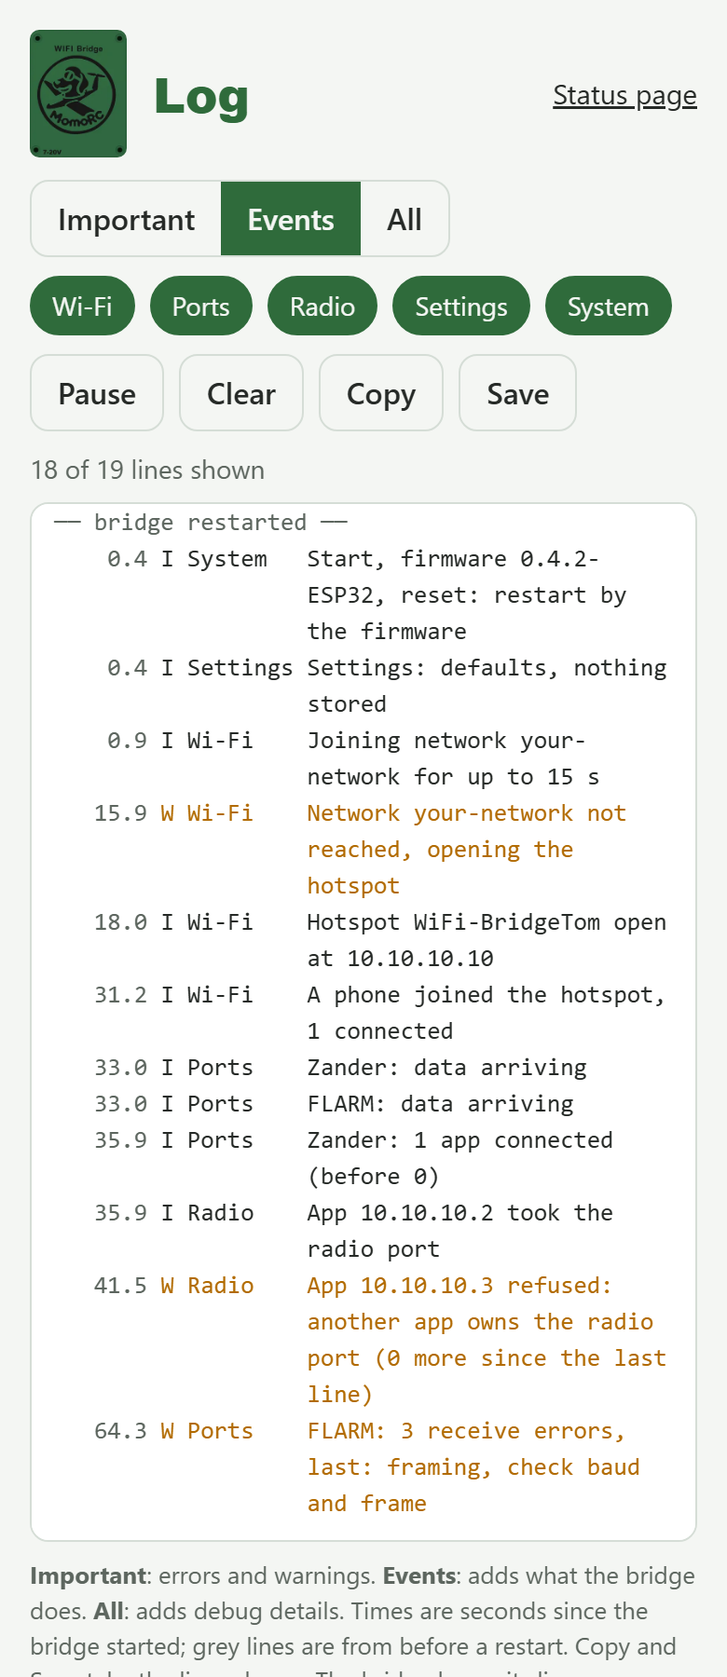
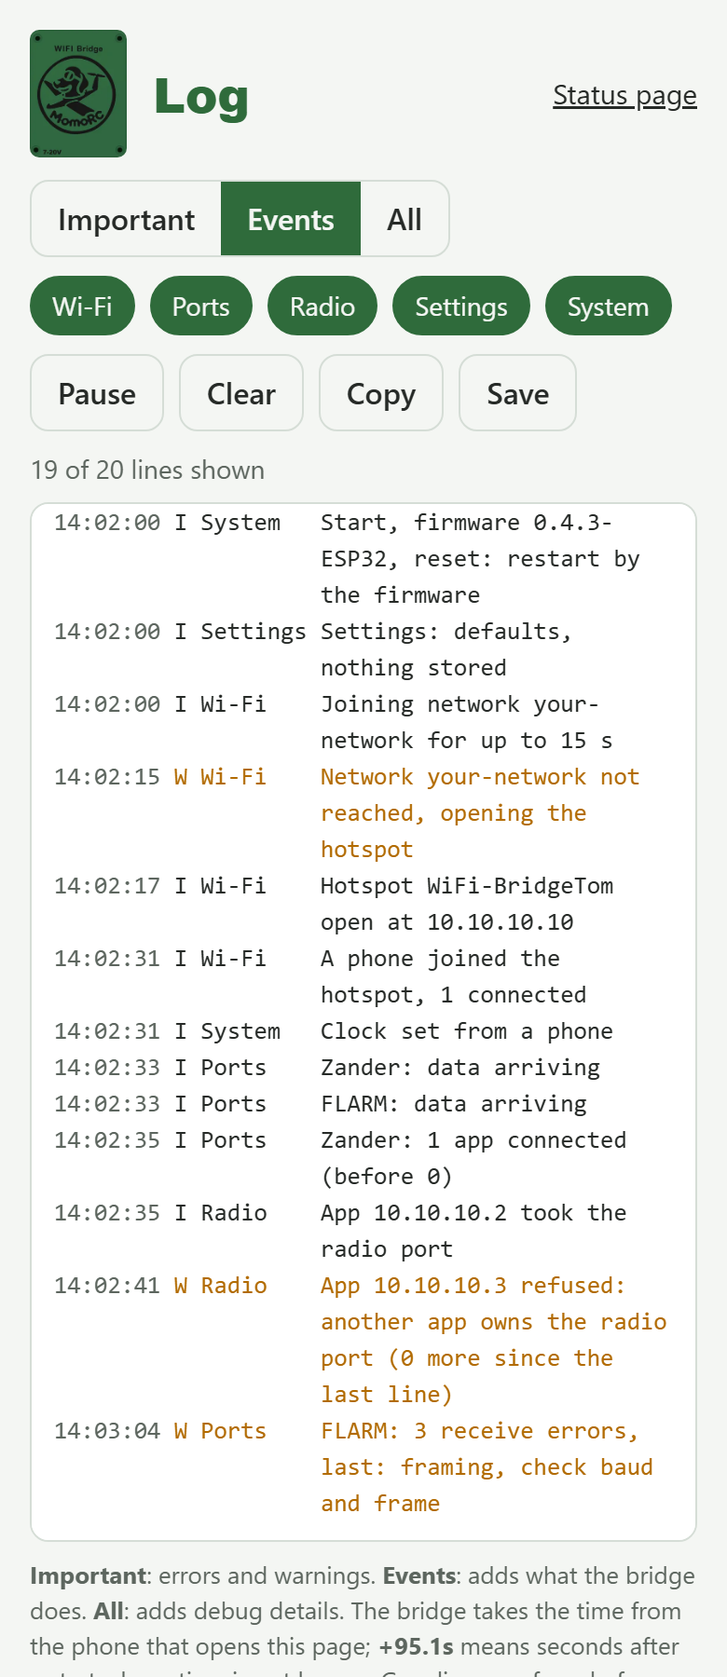
Add a clock time to every web log line
The bridge has no clock of its own: the log page now sends the phone's
time with every request. The first one sets the ESP32 clock and dates
the earlier lines of the same start; a phone more than 2 s off corrects
it. Each line stores its clock time (Unix s + ms, 0 = unknown), the
page shows HH:MM:SS with a date line per day, and Save writes date and
time with ms. Unknown times show as seconds after the start. Log
format version LOG2. Firmware 0.4.3.

Verified on the standalone bench ESP32 (S117): log_test 13/13, and
15/15 with --kept after an OTA restart; the clock ran through the
restart (lines dated before any phone time, 0.12 s off the PC clock);
loop test 4/4 with the log polled. Not tested: a phone as the time
source, a power cut.

diff --git a/firmware/bridge/log_page.h b/firmware/bridge/log_page.h
@@ -124,8 +124,10 @@ static void logSend(uint32_t since) {
                 statusServer.sendContent(buf, n);
                 n = 0;
             }
-            n += snprintf(buf + n, sizeof(buf) - n, "%s{\"q\":%lu,\"b\":%u,\"t\":%lu,\"l\":\"%c\",\"s\":\"%s\",\"m\":\"",
-                          comma ? "," : "", (unsigned long)l.seq, l.boot, (unsigned long)l.ms, l.level, kLogSource[l.src]);
+            n += snprintf(buf + n, sizeof(buf) - n,
+                          "%s{\"q\":%lu,\"b\":%u,\"t\":%lu,\"c\":%llu,\"l\":\"%c\",\"s\":\"%s\",\"m\":\"", comma ? "," : "",
+                          (unsigned long)l.seq, l.boot, (unsigned long)l.ms,
+                          l.sec ? (unsigned long long)l.sec * 1000ULL + l.milli : 0ULL, l.level, kLogSource[l.src]);
             comma = true;
             for (uint8_t k = 0; k < l.len; k++) {
                 const uint8_t c = (uint8_t)l.text[k];
@@ -171,7 +173,7 @@ button{font:inherit;font-weight:600;border-radius:10px;padding:8px 14px;cursor:p
 button:focus-visible{outline:2px solid var(--green);outline-offset:1px}
 #st{color:var(--mute);font-size:14px;margin:0 0 8px}
 #log{background:var(--field);border:1px solid var(--rule);border-radius:10px;padding:10px 12px;height:62vh;overflow:auto;font:13px/1.5 ui-monospace,Consolas,"Roboto Mono",monospace;white-space:pre-wrap;word-break:break-word;margin:0}
-.ln{display:block;padding-left:19ch;text-indent:-19ch}
+.ln{display:block;padding-left:20ch;text-indent:-20ch}
 .t,.lD,.sep{color:var(--mute)}.lE{color:var(--red)}.lW{color:var(--amber)}.old{opacity:.65}
 .key{color:var(--mute);font-size:13px;margin-top:8px}
 </style>
@@ -182,7 +184,7 @@ button:focus-visible{outline:2px solid var(--green);outline-offset:1px}
 <div class="bar"><button id="pz" onclick="pause()">Pause</button><button onclick="clr()">Clear</button><button onclick="copy()">Copy</button><button onclick="save()">Save</button></div>
 <p id="st">Loading the log</p>
 <pre id="log" aria-live="off"></pre>
-<p class="key"><b>Important</b>: errors and warnings. <b>Events</b>: adds what the bridge does. <b>All</b>: adds debug details. Times are seconds since the bridge started; grey lines are from before a restart. Copy and Save take the lines shown. The bridge keeps its lines across a restart, not across a power cut.</p>
+<p class="key"><b>Important</b>: errors and warnings. <b>Events</b>: adds what the bridge does. <b>All</b>: adds debug details. The bridge takes the time from the phone that opens this page; <b>+95.1s</b> means seconds after a start whose time is not known. Grey lines are from before a restart. Copy and Save take the lines shown. The bridge keeps its lines across a restart, not across a power cut.</p>
 </main>
 <script>
 const $=i=>document.getElementById(i),MAX=1500,
@@ -200,15 +202,20 @@ function remember(){localStorage.setItem('bridgeLog',JSON.stringify({view:view,o
 function say(t){note=t;noteAt=Date.now();status()}
 function status(){const n=shown().length;
 $('st').textContent=(Date.now()-noteAt<4000?note+'. ':'')+(paused?'Paused. ':'')+(lines.length?n+' of '+lines.length+' lines shown':'No lines yet')}
-function draw(){const L=$('log'),end=L.scrollTop+L.clientHeight>=L.scrollHeight-20;let h=[],prev='';
-for(const l of shown()){const k=l.e+'/'+l.b;if(prev&&k!==prev)h.push('<span class="ln sep">── bridge restarted ──</span>');prev=k;
-h.push('<span class="ln'+(l.e===epoch&&l.b===info.boot?'':' old')+'"><span class="t">'+(l.t/1000).toFixed(1).padStart(7)+'</span> <span class="l'+l.l+'">'+l.l+' '+SRC[l.s].padEnd(8)+' '+esc(l.m)+'</span></span>')}
+function day(ms){const d=new Date(ms);return d.getFullYear()+'-'+two(d.getMonth()+1)+'-'+two(d.getDate())}
+function hms(ms){const d=new Date(ms);return two(d.getHours())+':'+two(d.getMinutes())+':'+two(d.getSeconds())}
+function after(t){const s=t/1000;return '+'+(s<1000?s.toFixed(1):Math.round(s))+'s'}
+const sep=t=>'<span class="ln sep">── '+t+' ──</span>';
+function draw(){const L=$('log'),end=L.scrollTop+L.clientHeight>=L.scrollHeight-20;let h=[],prev='',pday='';
+for(const l of shown()){const k=l.e+'/'+l.b;if(prev&&k!==prev)h.push(sep('bridge restarted'));prev=k;
+if(l.c&&day(l.c)!==pday){pday=day(l.c);h.push(sep(pday))}
+h.push('<span class="ln'+(l.e===epoch&&l.b===info.boot?'':' old')+'"><span class="t" title="'+(l.t/1000).toFixed(3)+' s after the start">'+(l.c?hms(l.c):after(l.t).padStart(8))+'</span> <span class="l'+l.l+'">'+l.l+' '+SRC[l.s].padEnd(8)+' '+esc(l.m)+'</span></span>')}
 L.innerHTML=h.join('');if(end)L.scrollTop=L.scrollHeight;status()}
-function poll(){fetch('/api/log?since='+since,{cache:'no-store'}).then(r=>r.json()).then(d=>{
+function poll(){fetch('/api/log?since='+since+'&clock='+Date.now(),{cache:'no-store'}).then(r=>r.json()).then(d=>{
 if(d.seq<since)epoch++;
-const at=Date.now();info=d;
-if(d.lost)lines.push({e:epoch,b:d.boot,t:d.now,c:at,l:'W',s:'system',m:'Some lines were overwritten before this page fetched them'});
-for(const l of d.lines)lines.push({e:epoch,b:l.b,t:l.t,c:l.b===d.boot?at-(d.now-l.t):0,l:l.l,s:l.s,m:l.m});
+info=d;
+if(d.lost)lines.push({e:epoch,b:d.boot,t:d.now,c:Date.now(),l:'W',s:'system',m:'Some lines were overwritten before this page fetched them'});
+for(const l of d.lines)lines.push({e:epoch,b:l.b,t:l.t,c:l.c,l:l.l,s:l.s,m:l.m});
 if(lines.length>MAX)lines.splice(0,lines.length-MAX);
 since=d.seq;if(!paused)draw();else status()}).catch(()=>{$('st').textContent='The bridge is not answering.'})}
 function ui(){$('views').innerHTML=Object.keys(VIEWS).map(k=>'<button aria-pressed="'+(k===view)+'" onclick="setView(\''+k+'\')">'+VIEWS[k][0]+'</button>').join('');
@@ -220,8 +227,8 @@ function pause(){paused=!paused;ui();draw()}
 function clr(){lines=[];draw()}
 function text(){const s=shown();return['# WIFI Bridge log, firmware '+(info.firmware||'?')+', saved '+stamp(new Date())+' (phone clock)',
 '# View: '+VIEWS[view][0]+'; sources: '+Object.keys(SRC).filter(k=>!off.has(k)).map(k=>SRC[k]).join(', '),
-'# Columns: clock time (estimated from the phone, - before a restart), seconds since start, start number, level, source, message']
-.concat(s.map(l=>[l.c?clock(l.c):'-',(l.t/1000).toFixed(3),l.b,LV[l.l],SRC[l.s],l.m].join('\t'))).join('\n')+'\n'}
+'# Columns: date and time (time zone of this phone; - not known), seconds since start, start number, level, source, message']
+.concat(s.map(l=>[l.c?day(l.c)+' '+clock(l.c):'-',(l.t/1000).toFixed(3),l.b,LV[l.l],SRC[l.s],l.m].join('\t'))).join('\n')+'\n'}
 function legacyCopy(t){const a=document.createElement('textarea');a.value=t;a.setAttribute('readonly','');a.style.position='fixed';a.style.top='0';a.style.opacity='0';
 document.body.appendChild(a);a.select();a.setSelectionRange(0,t.length);let ok=false;try{ok=document.execCommand('copy')}catch(e){}a.remove();return ok}
 function copy(){const t=text(),n=shown().length,done=()=>say('Copied '+n+' lines'),fail=()=>say('The browser blocked copying; use Save');
@@ -236,6 +243,7 @@ ui();poll();setInterval(poll,1000);
 static void logRoutes() {
     statusServer.on("/log", HTTP_GET, []() { statusServer.send(200, "text/html", kLogPage); });
     statusServer.on("/api/log", HTTP_GET, []() {
+        if (statusServer.hasArg("clock")) logSetClock(strtoull(statusServer.arg("clock").c_str(), nullptr, 10));
         logSend(statusServer.hasArg("since") ? strtoul(statusServer.arg("since").c_str(), nullptr, 10) : 0);
     });
 }

diff --git a/firmware/bridge/weblog.h b/firmware/bridge/weblog.h
@@ -7,6 +7,11 @@
 // restart, crash or watchdog reset (not a power cut): the next start continues
 // them. log_page.h serves them on /log.
 //
+// Clock: the bridge has no clock of its own. The log page sends the phone's
+// time with every request; the first one sets the ESP32 system time (kept
+// across a software restart), and the lines of this start logged before it
+// get their time from it. Lines without a known time carry 0.
+//
 //   LOGE / LOGW / LOGI / LOGD(source, printf format, ...)
 //
 // Included by bridge.ino before settings.h, so every module can log. Without
@@ -23,17 +28,22 @@ enum LogSource : uint8_t { LOG_WIFI, LOG_PORTS, LOG_RADIO, LOG_SETTINGS, LOG_SYS
 #include <esp_attr.h>
 #include <esp_log.h>
 #include <esp_system.h>
+#include <sys/time.h>
 
 static const char* const kLogSource[LOG_SOURCES] = {"wifi", "ports", "radio", "settings", "system"};
 
 #define LOG_TEXT 100             // characters per line; longer lines are cut
 #define LOG_EVENTS 96            // Error, Warning and Info lines kept
 #define LOG_DEBUG 48             // Debug lines kept
-#define LOG_MAGIC 0x4C4F4731u    // "LOG1"; change it whenever LogStore changes
+#define LOG_MAGIC 0x4C4F4732u    // "LOG2"; change it whenever LogStore changes
+#define LOG_CLOCK_VALID 1700000000UL  // system time below this (2023) is not set
+#define LOG_CLOCK_SLACK_MS 2000       // a phone time this close is not applied
 
 struct LogLine {
     uint32_t seq;  // 1, 2, 3 ... across both rings and restarts; 0 = empty
     uint32_t ms;   // millis() of its start
+    uint32_t sec;  // clock time, Unix seconds UTC; 0 = not known
+    uint16_t milli;
     uint8_t boot;  // start number, counts up at every start
     char level;    // 'E', 'W', 'I', 'D'
     uint8_t src;   // LogSource
@@ -98,6 +108,11 @@ static void logWrite(char level, uint8_t src, const char* text, size_t len) {
     if (len == 0) return;
     LogLine l;
     l.ms = millis();
+    struct timeval tv;
+    gettimeofday(&tv, nullptr);
+    const bool known = tv.tv_sec >= (time_t)LOG_CLOCK_VALID;
+    l.sec = known ? (uint32_t)tv.tv_sec : 0;
+    l.milli = known ? (uint16_t)(tv.tv_usec / 1000) : 0;
     l.level = level;
     l.src = src;
     l.len = (uint8_t)len;
@@ -145,6 +160,37 @@ class LogPrint : public Print {
     size_t n = 0;
 };
 static LogPrint debug;
+
+template <size_t N>
+static void logBackfill(LogRing<N>& r, uint8_t boot, uint64_t bootEpochMs) {  // under logLock
+    for (LogLine& l : r.line) {
+        if (l.seq == 0 || l.sec != 0 || l.boot != boot) continue;
+        const uint64_t t = bootEpochMs + l.ms;
+        l.sec = (uint32_t)(t / 1000);
+        l.milli = (uint16_t)(t % 1000);
+    }
+}
+
+// The phone's time (Unix ms) from the log page: set the clock if it is not set
+// or off by more than LOG_CLOCK_SLACK_MS, then date the lines of this start.
+static void logSetClock(uint64_t phoneMs) {
+    if (phoneMs / 1000 < LOG_CLOCK_VALID) return;
+    struct timeval tv;
+    gettimeofday(&tv, nullptr);
+    const bool known = tv.tv_sec >= (time_t)LOG_CLOCK_VALID;
+    const int64_t off = (int64_t)phoneMs - ((int64_t)tv.tv_sec * 1000 + tv.tv_usec / 1000);
+    if (known && off > -LOG_CLOCK_SLACK_MS && off < LOG_CLOCK_SLACK_MS) return;
+    tv.tv_sec = (time_t)(phoneMs / 1000);
+    tv.tv_usec = (suseconds_t)(phoneMs % 1000) * 1000;
+    settimeofday(&tv, nullptr);
+    const uint64_t bootEpochMs = phoneMs - millis();
+    portENTER_CRITICAL(&logLock);
+    logBackfill(logStore.ev, logStore.boot, bootEpochMs);
+    logBackfill(logStore.dbg, logStore.boot, bootEpochMs);
+    portEXIT_CRITICAL(&logLock);
+    if (known) LOGI(LOG_SYSTEM, "Clock corrected from a phone by %+.1f s", off / 1000.0);
+    else LOGI(LOG_SYSTEM, "Clock set from a phone");
+}
 
 // ESP-IDF log lines ("E (1234) tag: text"), redirected so none goes out of UART0.
 static int logVprintf(const char* fmt, va_list ap) {

diff --git a/tools/log_test.py b/tools/log_test.py
@@ -12,8 +12,11 @@ Checks:
  4. the radio port: owner taken and released (Info), second app refused (Warning)
  5. ?since= returns only newer lines, oldest first
  6. every line has a known level and source
+ 7. clock: the phone time sent with the request dates every line of this
+    start; a clock 60 s off is corrected and logged
 With --kept:
- 7. lines from before the restart are still there, with a lower start number
+ 8. lines from before the restart are still there, with a lower start number
+    and their clock time
 """
 
 import argparse
@@ -34,8 +37,10 @@ def check(name, ok, detail=""):
     print(("PASS " if ok else "FAIL ") + name + (f": {detail}" if detail else ""))
 
 
-def log(host, since=0):
-    with urllib.request.urlopen(f"http://{host}/api/log?since={since}", timeout=10) as r:
+def log(host, since=0, offset_ms=0):
+    """Read the log, sending this PC's clock (plus offset) as the phone time, as the page does."""
+    clock = int(time.time() * 1000) + offset_ms
+    with urllib.request.urlopen(f"http://{host}/api/log?since={since}&clock={clock}", timeout=10) as r:
         return json.loads(r.read())
 
 
@@ -59,6 +64,13 @@ def main():
     start = [l for l in now if l["s"] == "system" and l["m"].startswith("Start, firmware")]
     check("start line with firmware and reset reason", bool(start) and d["firmware"] in start[0]["m"] and "reset:" in start[0]["m"],
           start[0]["m"] if start else "missing")
+    pc = time.time() * 1000
+    undated = [l for l in now if not l["c"]]
+    check("every line of this start has a clock time", not undated, f"{len(undated)} without")
+    if start and start[0]["c"]:
+        expect = pc - (d["now"] - start[0]["t"])
+        check("start line time matches the phone clock", abs(start[0]["c"] - expect) < 3000,
+              f"{(start[0]['c'] - expect) / 1000:+.1f} s")
     check("settings logged at start-up", bool([l for l in now if l["s"] == "settings" and "Settings" in l["m"]]))
 
     seq = d["seq"]
@@ -91,10 +103,19 @@ def main():
     bad = [l for l in every if l["l"] not in LEVELS or l["s"] not in SOURCES]
     check("every line has a known level and source", not bad, f"{len(every)} lines")
 
+    seq = log(host)["seq"]
+    log(host, seq, 60000)
+    d = log(host, seq)  # back to the right time
+    fixes = [l["m"] for l in d["lines"] if l["s"] == "system" and l["m"].startswith("Clock corrected")]
+    steps = [float(m.split(" by ")[1].split(" s")[0]) for m in fixes]
+    check("a clock 60 s off is corrected both ways", len(steps) == 2 and abs(steps[0] - 60) < 1 and abs(steps[1] + 60) < 1,
+          "; ".join(fixes))
+
     if args.kept:
         boot = log(host)["boot"]
         old = [l for l in every if l["b"] < boot]
         check("lines from before the restart kept", bool(old), f"{len(old)} older lines, start number now {boot}")
+        check("lines from before the restart keep their clock time", bool(old) and all(l["c"] for l in old))
 
     print(f"{sum(results)}/{len(results)} checks passed")
     sys.exit(0 if all(results) else 1)

diff --git a/tools/status_screenshot.py b/tools/status_screenshot.py
@@ -21,6 +21,7 @@ status page and commit the new image (AGENTS.md).
 
 import argparse
 import base64
+import datetime
 import json
 import re
 import shutil
@@ -73,6 +74,7 @@ def demo_monitor() -> dict:
     return {"seq": len(chunks), "lost": False, "now": t, "chunks": chunks}
 
 
+DEMO_START = datetime.datetime(2026, 11, 18, 14, 2, 0)  # clock time of start 2; start 1 had no phone time
 DEMO_LOG = [  # (start number, ms since start, level, source, message); start 2 is the current one
     (1, 412, "I", "system", "Start, firmware {fw}, reset: power on"),
     (1, 431, "I", "settings", "Settings: defaults, nothing stored"),
@@ -86,6 +88,7 @@ DEMO_LOG = [  # (start number, ms since start, level, source, message); start 2 
     (2, 15940, "W", "wifi", "Network your-network not reached, opening the hotspot"),
     (2, 17985, "I", "wifi", "Hotspot WiFi-BridgeTom open at 10.10.10.10"),
     (2, 31200, "I", "wifi", "A phone joined the hotspot, 1 connected"),
+    (2, 31950, "I", "system", "Clock set from a phone"),
     (2, 33010, "I", "ports", "Zander: data arriving"),
     (2, 33020, "I", "ports", "FLARM: data arriving"),
     (2, 35870, "I", "ports", "Zander: 1 app connected (before 0)"),
@@ -97,7 +100,8 @@ DEMO_LOG = [  # (start number, ms since start, level, source, message); start 2 
 
 
 def demo_log(firmware: str) -> dict:
-    lines = [{"q": q, "b": b, "t": t, "l": l, "s": s, "m": m.format(fw=firmware)}
+    start = int(DEMO_START.timestamp() * 1000)
+    lines = [{"q": q, "b": b, "t": t, "c": start + t if b == 2 else 0, "l": l, "s": s, "m": m.format(fw=firmware)}
              for q, (b, t, l, s, m) in enumerate(DEMO_LOG, 1)]
     return {"firmware": firmware, "boot": 2, "seq": len(lines), "now": 66000, "lost": False, "lines": lines}
 

diff --git a/firmware/bridge/config.h b/firmware/bridge/config.h
@@ -53,7 +53,7 @@
                              // incoming bytes while the loop waits on a UART write
 
 #ifdef ESP32
-#define VERSION "0.4.2-ESP32"     // Project: own version, 0.<plan step> until bench acceptance; .1 = device profiles (WP9), .2 = web log (step 3c)
+#define VERSION "0.4.3-ESP32"     // Project: own version, 0.<plan step> until bench acceptance; .1 = device profiles (WP9), .2 = web log (step 3c), .3 = log clock time
 #elif defined(ESP8266)
 #define VERSION "0.3b.1-ESP8266"
 #endif

diff --git a/docs/project/roadmap.md b/docs/project/roadmap.md
@@ -115,7 +115,7 @@ Each step: build, upload over Wi-Fi, check, update the owning pages, commit.
 | 3 | ✅ **Status page.** Read-only page and JSON | Bench ESP32, phone | The page shows live counters on the phone; the step 2 check passes with the page open. Done (S107) |
 | 3a | ✅ **Settings page.** Stored settings and a password-protected page, [design](#settings-page). Four commits: settings module used at start-up; active values and their origin on the status page; settings page; bench checks | Bench ESP32, phone | With nothing stored, the step 2 loop test passes unchanged. A changed baud rate works after the restart and survives an OTA update. A wrong network falls back to the hotspot. An unconfirmed Wi-Fi, hotspot or port change reverts after 10 min. A wrong password saves nothing. Power loss during a save leaves the old or the new values, never a mix. Forwarding is unaffected with the page open. Reset restores the defaults. Done (S109–S111), except the power-loss check, which needs the owner to pull the USB cable during a save |
 | 3b | ✅ **Data monitor.** Live view of the bytes from and to each device on its own page `/monitor`, [design](#data-monitor) | Bench ESP32, phone, PC | Looped test data appears on the monitor in the right port and direction, NMEA as readable lines and radio bytes as hex; Pause and Download work; the loop test passes with the monitor open; nothing is collected while no one watches. Done (S112): byte-exact with the monitor open. Pause and Download still to try on a phone |
-| 3c | ✅ **Web log.** Event log page `/log` with level and source filters, Copy and Save, kept across a restart, [design](#web-log) | Bench ESP32, phone, PC | Start-up, Wi-Fi, app, radio and settings events appear with the right level and source; the filters, Copy and Save work on the phone; lines from before a restart stay readable with the reset reason; the loop test passes with the log open; nothing reaches a UART. Done (S116); Copy and Save still to try on a phone |
+| 3c | ✅ **Web log.** Event log page `/log` with level and source filters, Copy and Save, kept across a restart, [design](#web-log) | Bench ESP32, phone, PC | Start-up, Wi-Fi, app, radio and settings events appear with the right level and source; the filters, Copy and Save work on the phone; lines from before a restart stay readable with the reset reason; the loop test passes with the log open; nothing reaches a UART. Done (S116, S117); Copy and Save still to try on a phone |
 | 4 | **Radio port.** Single owner with dead-owner check, counted writes. Client writes keep the core's blocking behaviour until step 5 has measured it. Standalone TCP ownership, clean close and byte-exact loopback checked (S114) | Wired bench bridge; [bus-level test](../hardware/wiring.md#bus-test): DE-9 breakout with the radio loop, USB RS-232 adapter; serial-feed mode in the test script | Through the radio loop every byte value, bursts and split writes return unchanged; the Zander and FLARM inputs pass the RS-232 feed; nothing arrives after a restart; a second client is refused; after the owner's Wi-Fi is cut, a new client gets the radio port within 45 s; navigation data keeps flowing |
 | 5 | **Bench acceptance.** One PC test script for the [bridge tests](#test-coverage): slow and vanishing clients, including a second phone that stays connected with its screen off or OpenSoar in the background; Wi-Fi loss and return; one-hour run on all three ports. With OpenSoar on the phone: bridge power cycle in network and hotspot mode, and a run with mobile data on | Finished bench bridge, phone with OpenSoar | No byte errors; a client that stops reading does not delay data on the other clients or ports, otherwise non-blocking client writes are added before aircraft use; after each power cycle OpenSoar gets data on all three ports again without a manual reconnect; with mobile data on, all three ports connect and stay connected; results recorded; bridge part of M4 |
 
@@ -175,7 +175,8 @@ The firmware alone does not tune the radio: OpenSoar's driver cuts frames that c
 | Levels | Error, Warning, Info, Debug |
 | Sources | Wi-Fi, Ports, Radio, Settings, System |
 | Views | **Important**: errors and warnings. **Events** (default): adds Info, for functional work. **All**: adds Debug, for debugging. One toggle per source on top. The browser remembers the choice |
-| Export | **Copy** puts the shown lines on the clipboard; **Save** downloads them as a text file. One click each, with a header line: firmware, save time and view. Each line carries the bridge time and the clock time estimated from the phone |
+| Export | **Copy** puts the shown lines on the clipboard; **Save** downloads them as a text file. One click each, with a header line: firmware, save time and view |
+| Timestamps | Every line has its date and time. The bridge has no clock: the log page sends the phone's time, which sets the ESP32 clock and dates the earlier lines of the same start. The clock keeps running through a restart, not a power cut |
 | Collection | Always on, in RAM: the last 96 Error, Warning and Info lines and, separately, the last 48 Debug lines, so debug chatter cannot push out events. About 16 kB |
 | Restart | The lines survive a restart, crash or watchdog reset, but not a power cut. The page marks where the bridge restarted and why |
 | Forwarding loop | Logs only rare events (radio owner changes). Counters (receive errors, short writes, connected apps, data arriving) are compared once per second by the web task: a flood of receive errors makes one line per 5 s, not one per byte |
@@ -184,7 +185,7 @@ The firmware alone does not tune the radio: OpenSoar's driver cuts frames that c
 
 | Source | Level | Messages |
 | --- | --- | --- |
-| System | Info / Warning | Start with firmware version and reset reason; Warning after a crash, watchdog or brownout |
+| System | Info / Warning | Start with firmware version and reset reason; Warning after a crash, watchdog or brownout. Clock set or corrected from a phone |
 | System | Info / Error | Firmware update started, received; Error when it fails, with the reason. Progress in 25 % steps as Debug |
 | System | Error / Warning | ESP32 system messages |
 | System | Debug | Every 60 s: free memory, lowest free memory, Wi-Fi signal. Upstream debug prints |

diff --git a/docs/research/sources.md b/docs/research/sources.md
@@ -7,7 +7,7 @@
 Every source the project relies on: what it is, what was checked in it, and its limits. Other pages cite these IDs (S01, F02 …).
 
 > [!NOTE]
-> **Status:** documents and code are reviewed; owner-measured RS-232 and ESP32 PCB dimensions are recorded in S38 and S40, the OTA loader and bridge firmware bench results in S97–S116. Electrical checks of the bridge hardware are pending. Dated review records: [reviews](reviews).
+> **Status:** documents and code are reviewed; owner-measured RS-232 and ESP32 PCB dimensions are recorded in S38 and S40, the OTA loader and bridge firmware bench results in S97–S117. Electrical checks of the bridge hardware are pending. Dated review records: [reviews](reviews).
 
 📑 **On this page:** <kbd>[1 · 🏷 Evidence labels](#evidence-labels)</kbd> <kbd>[2 · 📋 Source register](#source-register)</kbd> <kbd>[3 · 🔍 Driver findings](#findings)</kbd>
 
@@ -144,6 +144,7 @@ New evidence records the revision or page, the date, what was checked and its la
 | S114 | [Bridge firmware](../../firmware/bridge/README.md#loop-check-step-2) 0.4, WP6 step 4, 2026-11-17. Standalone ESP32, USB power, jumper loops as S105 | Built with arduino-cli 1.3.1 and Arduino-ESP32 3.3.12, 1,034,839 bytes (52 %) and 80,280 bytes static RAM. Only the two existing `available()` deprecation warnings on the navigation listeners. OTA upload over the bench network and restart verified. `bridge_loop_test.py --radio-loop --radio-owner` went from 7/10 on 0.3b.1 to 10/10 on 0.4: second radio client refused, its data excluded, port reclaimed after TCP FIN, all three loops byte-exact. Monitor test 7/7. Status reported zero UART errors and TCP short writes. Still to test: keepalive after an unannounced Wi-Fi loss, hotspot disassociation, MAX490 and RS-232 paths, and step 5. |
 | S115 | [Bridge firmware](../../firmware/bridge/README.md#settings-page) 0.4.1, device profiles (WP9, software part), 2026-11-17. Standalone ESP32, USB power, jumper loops as S105 | Measured by Claude on the bench PC and bench ESP32. Built with arduino-cli 1.6.0 and Arduino-ESP32 3.3.12, 1,037,171 bytes (52 %) and 80,352 bytes static RAM; only the two existing `available()` warnings. Settings stored on 0.4 (radio baud 19200, FLARM frame 8E1) survived the OTA update to 0.4.1, stayed active (UART2 at 19200) and showed as Custom on both ports; format version unchanged. `tools/settings_test.py` 20/20, including: presets offered by wiring (Zander and FLARM ports: ZS1, Classic FLARM; Becker port: AR6201); unfitting or unknown presets refused per field; Classic FLARM preset on the Zander port kept after restart with baud and frame shown as default; a preset with edited baud saved as Custom; trial, Keep and reset unchanged. Settings page script in headless Chrome: a preset fills baud and frame, a manual baud or frame change selects Custom. Preset values are the config.h candidates, not installed settings. |
 | S116 | [Bridge firmware](../../firmware/bridge/README.md#web-log) 0.4.2, web log (WP6 step 3c), 2026-11-18. Standalone ESP32 in network mode, USB power, jumper loops as S105 | Measured by Claude on the bench PC and bench ESP32. Built with arduino-cli 1.6.0 and Arduino-ESP32 3.3.12, 1,053,427 bytes (53 %) and 99,476 bytes static RAM; only the two existing `available()` warnings. `tools/log_test.py` 10/10, and with `--kept` 11/11 after OTA restarts: start line with firmware and reset reason, settings line, Zander app connect and disconnect, radio owner taken and released, second radio app refused as a Warning, `?since=` order, known level and source on every line, lines of earlier starts kept (51 lines over two restarts, start number 3). OTA update logged with 25 % steps; the bridge's own disconnect before the restart logged as Info. `tools/bridge_loop_test.py --radio-loop` 4/4 byte-exact while `/api/log?since=0` was fetched every 0.5 s. Not tested: Copy and Save on a phone, a crash or watchdog reset, a power cut, the hotspot mode events. |
+| S117 | [Bridge firmware](../../firmware/bridge/README.md#web-log) 0.4.3, clock time on every log line, 2026-11-18. Standalone ESP32 in network mode, USB power, jumper loops as S105 | Measured by Claude on the bench PC and bench ESP32. Built with arduino-cli 1.6.0 and Arduino-ESP32 3.3.12; 100,724 bytes static RAM; only the two existing `available()` warnings. Before any phone time all 8 lines were undated; the first request with the PC's time dated every line of the start, the start line within 0.1 s. `tools/log_test.py` 13/13, and 15/15 with `--kept` after an OTA restart: a clock 60 s off corrected both ways and logged; 38 lines of the earlier start kept with their times. After the restart, all lines were dated before any request sent a time, 0.12 s from the PC clock: the ESP32 clock ran through the software restart. `tools/bridge_loop_test.py --radio-loop` 4/4 with the log fetched every 0.5 s. Not tested: a phone as the time source, a power cut. |
 
 ---
 

diff --git a/firmware/bridge/README.md b/firmware/bridge/README.md
@@ -125,13 +125,15 @@ Open *Log* at the bottom of the status page, or `http://<bridge address>/log`. N
 | Source buttons | Show or hide Wi-Fi, Ports, Radio, Settings, System. The browser remembers view and sources |
 | **Pause**, **Clear** | Freeze the view (lines keep arriving) / empty the view; the bridge keeps its lines |
 | **Copy** | Puts the shown lines on the clipboard, with a header: firmware, save time, view. Works over plain `http`, where the browser's clipboard API is blocked, through the older copy command |
-| **Save** | Downloads the same text as `bridge-log-<date>-<time>.txt`. Columns: clock time (estimated from the phone; `-` before a restart), seconds since start, start number, level, source, message |
+| **Save** | Downloads the same text as `bridge-log-<date>-<time>.txt`. Columns: date and time with milliseconds (`-` when not known), seconds since start, start number, level, source, message |
 
-- **Lines:** time in seconds since the bridge started, level letter (E, W, I, D), source, message. Grey lines are from before a restart; a separator marks it, and the first line after it names the reset reason (power on, restart by the firmware, crash, watchdog, brownout).
+- **Lines:** clock time, level letter (E, W, I, D), source, message. A date line marks each new day. On a PC, hover over the time for the seconds since the start.
+- **Clock:** the bridge has no clock of its own. The log page sends the phone's time with every request; the first one sets the ESP32 clock, and the lines of this start logged before it get their time from it ("Clock set from a phone"). A phone more than 2 s off corrects it ("Clock corrected"). The clock keeps running through a restart, so lines after it get their time at once; after a power cut the time is unknown until a phone opens the log. Unknown times show as seconds after the start, for example `+95.1s`.
+- **Restarts:** grey lines are from before a restart; a separator marks it, and the first line after it names the reset reason (power on, restart by the firmware, crash, watchdog, brownout).
 - **Collection:** always on, in RAM: the last 96 Error/Warning/Info lines and, separately, the last 48 Debug lines (about 16 kB). The buffers sit in `.noinit` RAM, so they survive a restart, crash or watchdog reset, not a power cut. A line is copied under a short lock; nothing blocks and nothing goes to a UART.
 - **Counters as lines:** once per second the web task compares the port counters: apps connected, data arriving or quiet for 10 s, receive errors and short writes (at most one line per port every 5 s, with the kind of the last receive error). A refused radio app is logged at most every 30 s, with the number of further refusals. Memory and Wi-Fi signal as Debug every 60 s.
 - **ESP32 system messages:** the ESP-IDF log output is redirected into the log as source System, so none goes out of UART0 on the Zander transmit pin. This core build compiles in only its error messages.
-- **Data:** `GET /api/log?since=<sequence>` returns the newer lines as JSON, oldest first: `q` sequence, `b` start number, `t` ms since that start, `l` level, `s` source, `m` message. `lost` is true when lines were overwritten before they were fetched.
+- **Data:** `GET /api/log?since=<sequence>&clock=<phone time in Unix ms>` returns the newer lines as JSON, oldest first: `q` sequence, `b` start number, `t` ms since that start, `c` clock time in Unix ms UTC (0 = not known), `l` level, `s` source, `m` message. `lost` is true when lines were overwritten before they were fetched.
 - **Privacy:** saved logs contain the network name and app addresses. Do not commit them to this public repository unredacted.
 
 Bench check: `python tools/log_test.py <bridge address>`, and after an OTA upload `--kept` to check that the lines from before the restart remain.
